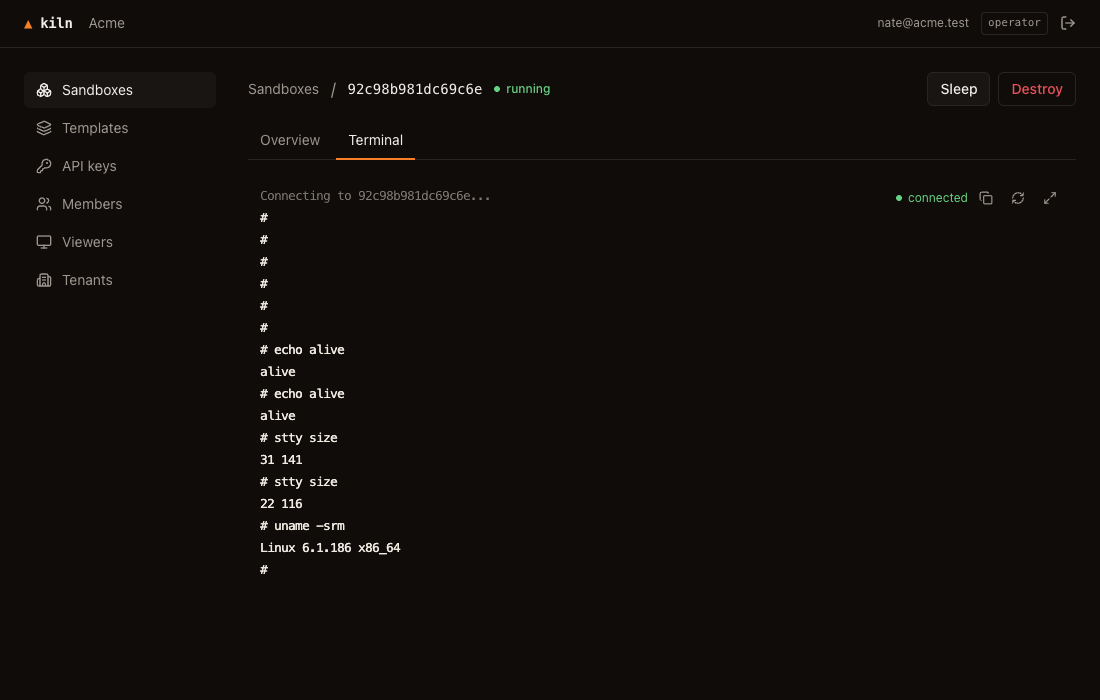
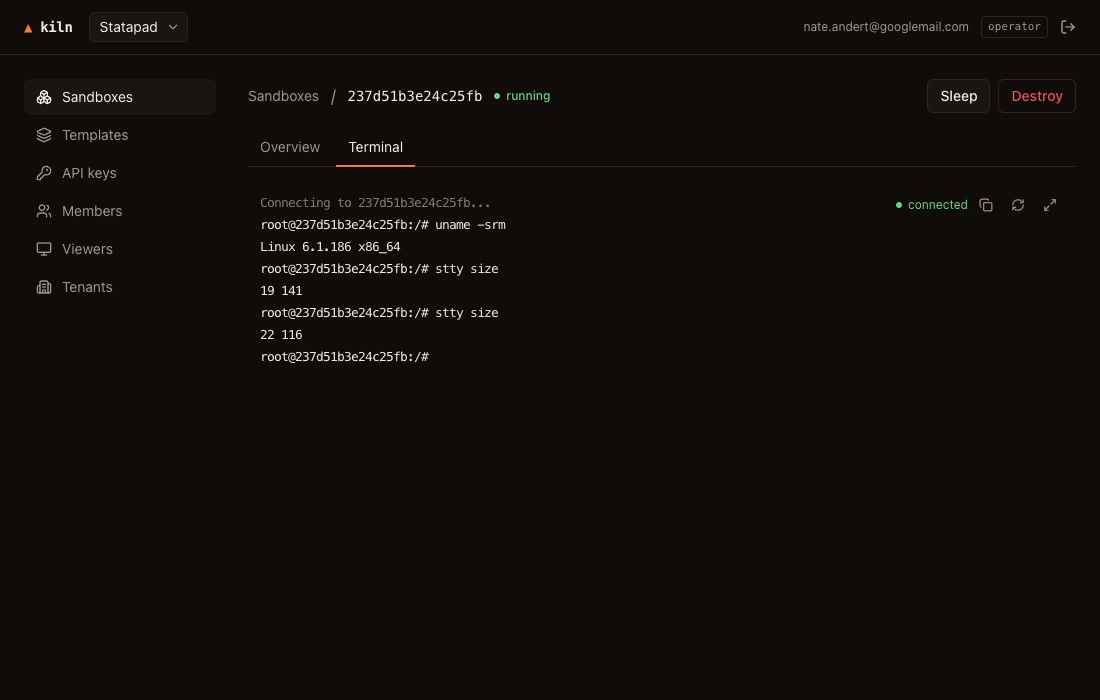
v0.3.0: the web UI and a terminal into a sandbox
The version moves to 0.3.0 in apispec, and the generated document and the
two SDK packages follow. Pre-1.0 a breaking change bumps the minor, and
this one breaks twice: the auth prefix moved to /api/auth, which stops
every token issued under the old issuer, and the member role viewer
became reader.

LOG.md records what running it taught, which is seven bugs no test would
have found.

Claude-Session: https://claude.ai/code/session_01AgVc56qAYDqsTBZitTGhjv

diff --git a/internal/apispec/openapi.go b/internal/apispec/openapi.go
@@ -6,7 +6,7 @@ import (
 )
 
 // Version is the semver of this contract. It rises with the binary.
-const Version = "0.2.0"
+const Version = "0.3.0"
 
 // OpenAPI returns the OpenAPI 3.1 document of the tenant API. The operator
 // routes stay out: a tenant never reaches them, and the SDKs never call them.

diff --git a/LOG.md b/LOG.md
@@ -194,3 +194,43 @@ DNS resolver stopped.
 AGENTS.md carries two exceptions now. The auth-all API names a type
 Organization and a plugin admin, so those two words are legal in code that
 calls it.
+
+## 2026-09-16 — v0.3.0, the web UI and a terminal
+
+Done: the gateway serves a React SPA from its own binary, and a sandbox has an
+interactive shell in the browser. The auth prefix moved to `/api/auth`, the
+auth-all default, so the official TypeScript client works with no local
+variant; every access token issued under the old issuer stopped being
+accepted. The member role `viewer` became `reader`, because `viewer` already
+names a preview login.
+
+Found by running it, not by reading it:
+- The gateway wraps its ResponseWriter twice, for the audit status and for the
+  WWW-Authenticate header, and neither wrapper implemented http.Hijacker.
+  httputil.ReverseProxy refused to switch protocols, so every terminal died
+  at the upgrade. The audit code broke the feature it was watching.
+- Coolify's Traefik advertises HTTP/3. A WebSocket over h2 or h3 needs
+  Extended CONNECT, which net/http does not serve, so the browser hung in
+  CONNECTING while the same request over HTTP/1.1 answered 101. quic-go
+  advertises Extended CONNECT unconditionally; Go disabled the h2 equivalent
+  by default in 1.24. Removing `--entrypoints.https.http3` fixed it.
+- A build gave its VMs an id hashed from the template name, and the
+  reconciler protected an id hashed from tenant/name. The two never matched,
+  so every build was an orphan and any sweep inside the two to four minutes
+  of a build killed the VM and purged its TAP. Three builds failed this way
+  before the cause was clear. The same mismatch would have given two tenants
+  building one name the same VM id.
+- The terminal client forgave its retry budget the moment a socket opened.
+  A socket that opened and died 140ms later therefore retried for ever, at a
+  constant half second. The budget is forgiven only after the shell holds.
+- A sandbox restored from a template built before the guest agent had a
+  terminal refuses the op, and the host closed with no reason. The close now
+  carries one, and names the rebuild that fixes it.
+- /bin/sh is dash on a Debian image: no tab completion, no history, no arrow
+  keys, and a bare # for a prompt. The agent takes bash when the image has it.
+- A session can hold memberships and no active tenant. Every /v1 call answered
+  403 and the screens sat empty. A chooser stands in the way now.
+
+The demo that closes this: on the Dedibox, a template built through the UI, a
+sandbox created from it, and a shell in the browser running `uname -srm` and
+reporting `stty size` as the window narrowed.
